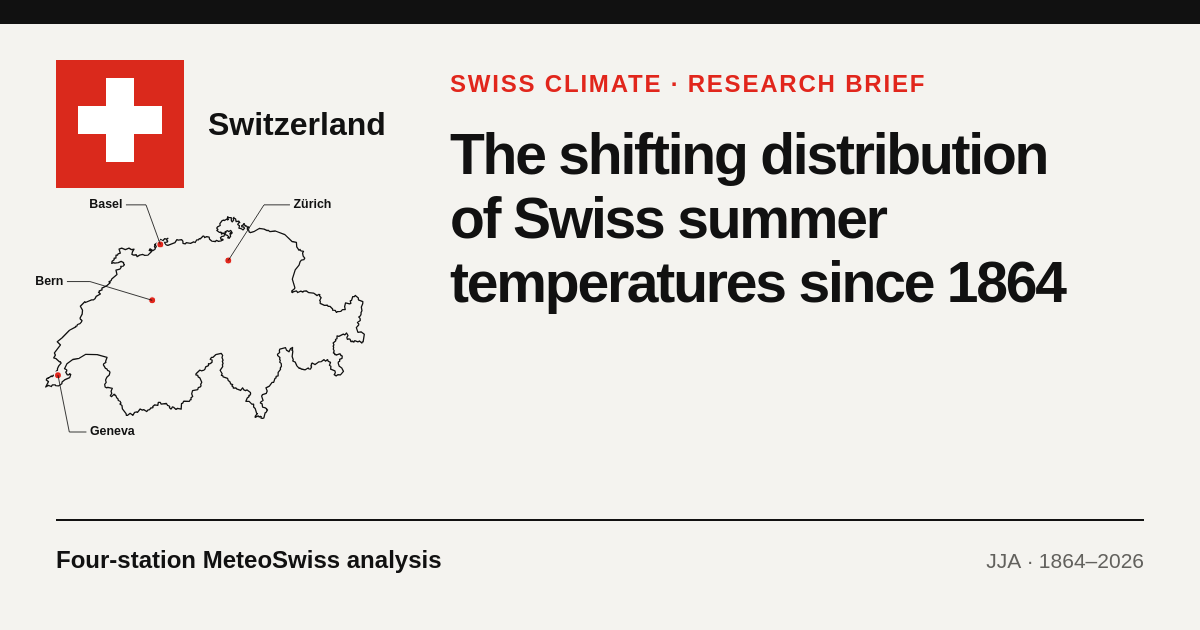
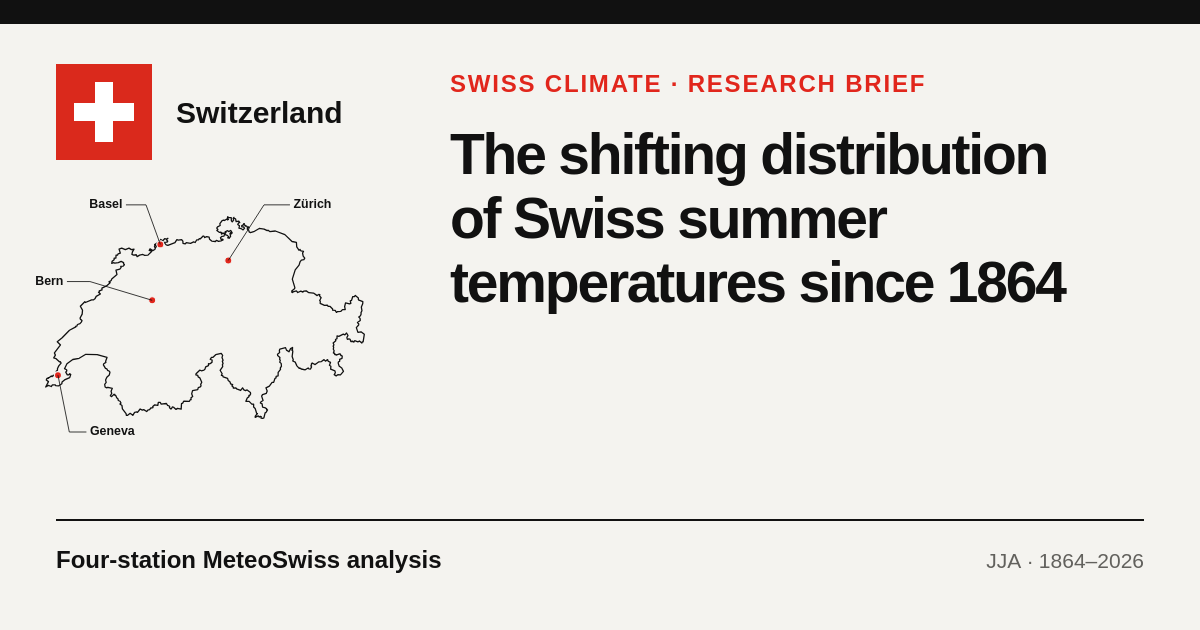
Reduce flag in social preview

Changed region(s): [[0.0308, 0.0905, 0.3392, 0.3016]]

diff --git a/website/index.html b/website/index.html
@@ -9,14 +9,14 @@
     <meta property="og:url" content="https://p3jitnath.github.io/meteoswiss-analysis/" />
     <meta property="og:title" content="Swiss summers, shifted" />
     <meta property="og:description" content="Swiss summer temperature distributions since 1864, based on MeteoSwiss open data." />
-    <meta property="og:image" content="https://p3jitnath.github.io/meteoswiss-analysis/social-preview.png?v=3" />
-    <meta property="og:image:secure_url" content="https://p3jitnath.github.io/meteoswiss-analysis/social-preview.png?v=3" />
+    <meta property="og:image" content="https://p3jitnath.github.io/meteoswiss-analysis/social-preview.png?v=4" />
+    <meta property="og:image:secure_url" content="https://p3jitnath.github.io/meteoswiss-analysis/social-preview.png?v=4" />
     <meta property="og:image:type" content="image/png" />
     <meta property="og:image:width" content="1200" />
     <meta property="og:image:height" content="630" />
     <meta property="og:image:alt" content="Swiss flag beside the title of the Swiss summer temperature research brief" />
     <meta name="twitter:card" content="summary_large_image" />
-    <meta name="twitter:image" content="https://p3jitnath.github.io/meteoswiss-analysis/social-preview.png?v=3" />
+    <meta name="twitter:image" content="https://p3jitnath.github.io/meteoswiss-analysis/social-preview.png?v=4" />
     <link rel="icon" type="image/svg+xml" href="./favicon.svg" />
     <title>Swiss summers, shifted</title>
   </head>
